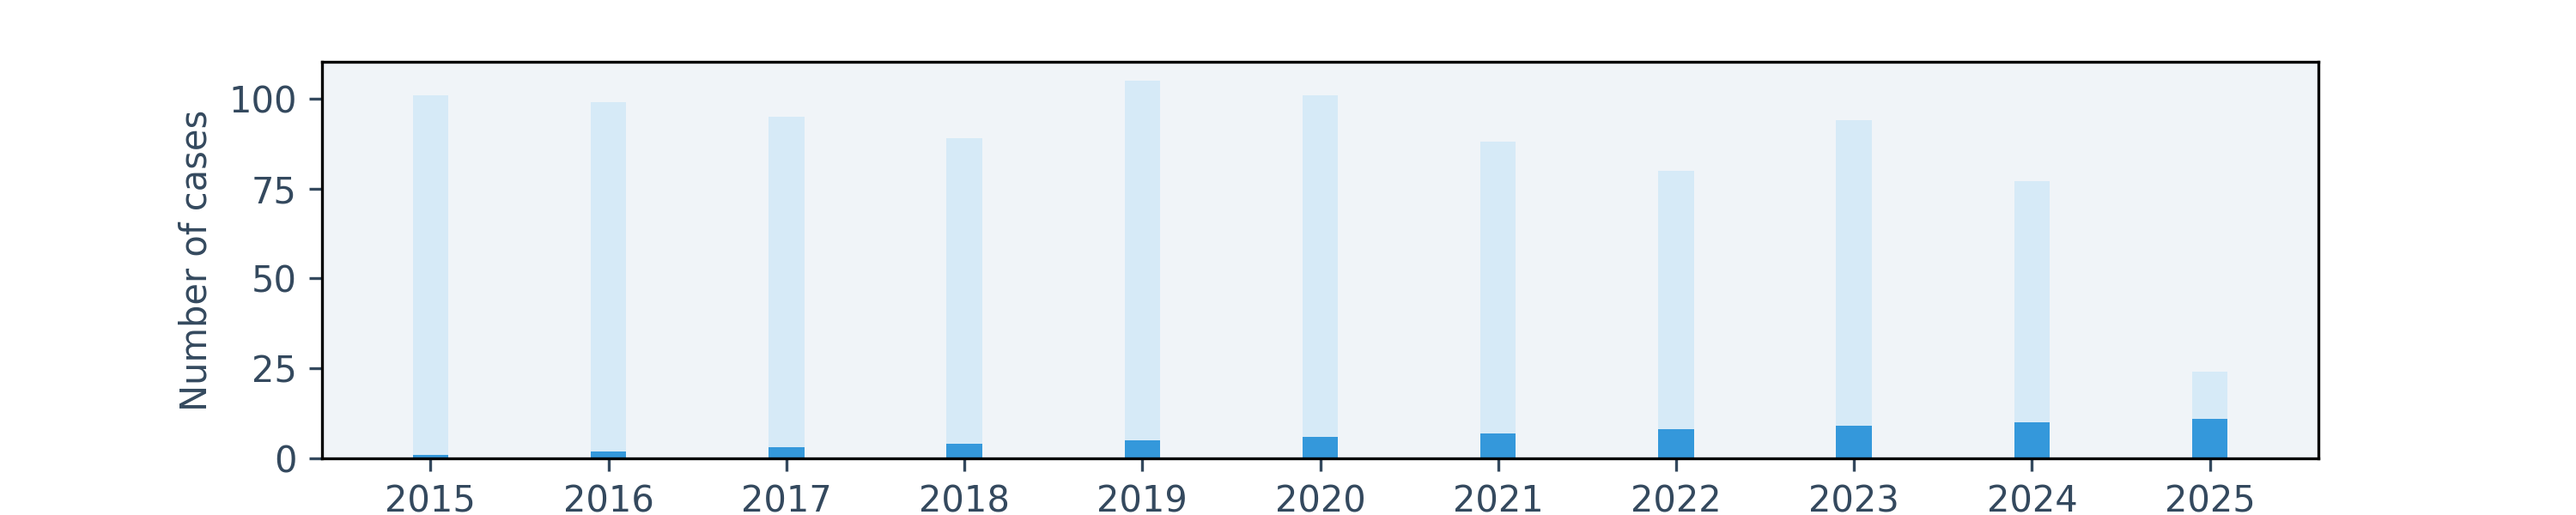
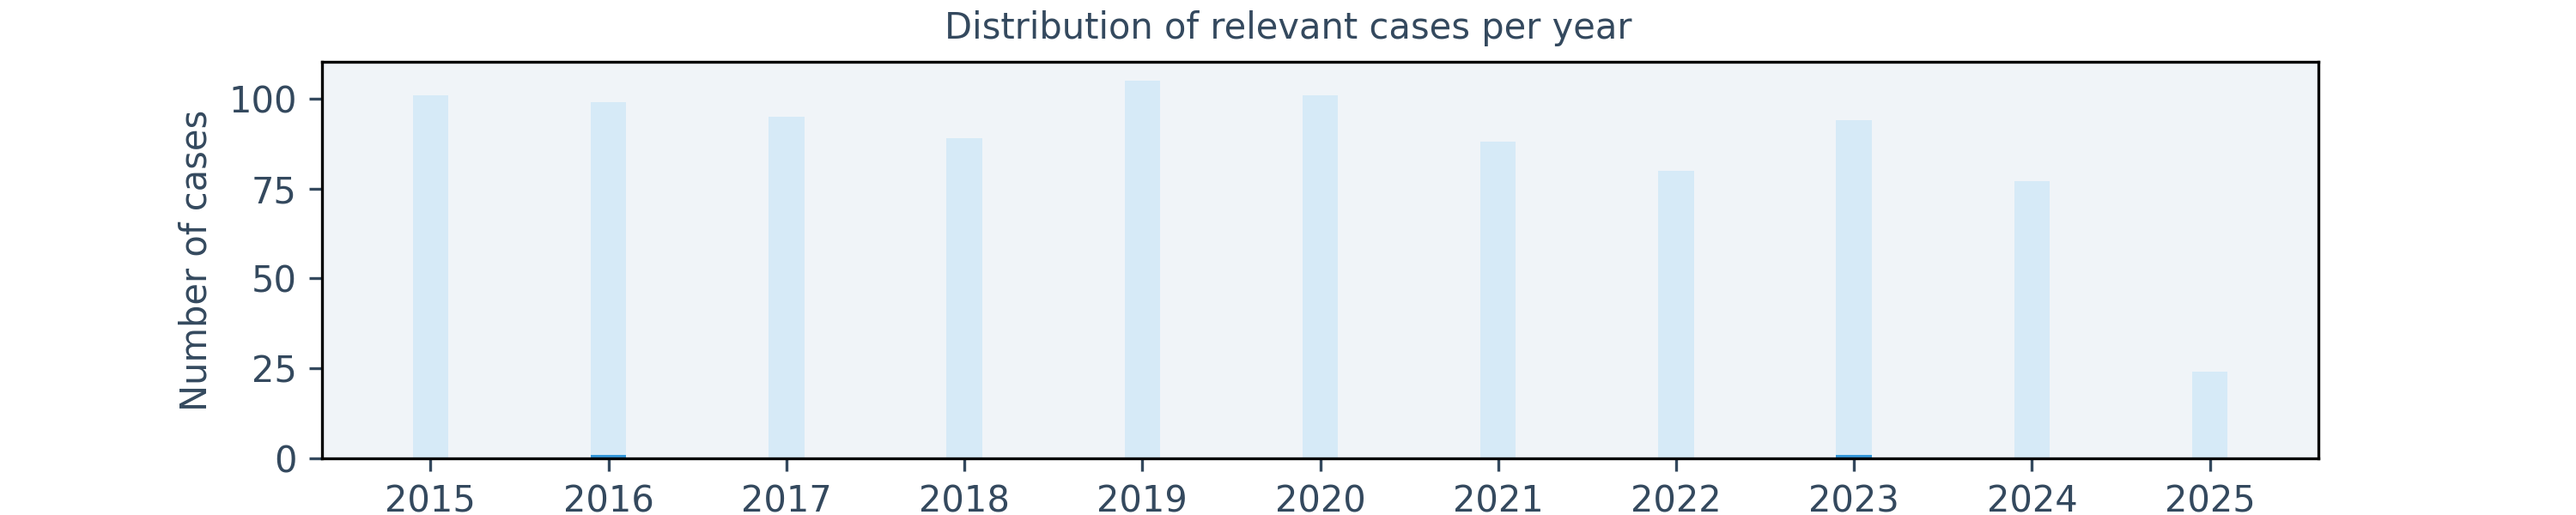
Commit for merging with main

diff --git a/final_project/app/routes.py b/final_project/app/routes.py
@@ -1,9 +1,9 @@
 from flask import Flask, request, render_template, jsonify, send_from_directory
 import json
 from app import app
-from app.neural_search import neural_search, embedd_doc, cosine_similarities, neural_search_results
+from app.neural_search import  embedd_doc, cosine_similarities, neural_search_results
 from app.tfidf import tf_document_setup, retrieve_matches, tf_get_results, tfidf_search_results
-from app.boolean_search import load_documents as load_boolean_documents, document_setup as boolean_document_setup, retrieve_matches as boolean_retrieve_matches
+from app.boolean_search import  document_setup as boolean_document_setup, retrieve_matches as boolean_retrieve_matches
 from app.document_loader import LexDatabase
 from app.chartgen import generate_chart, case_distribution
 import numpy as n
